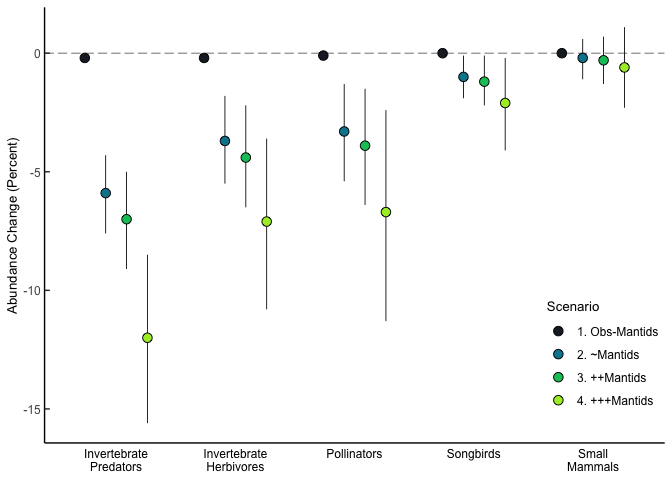
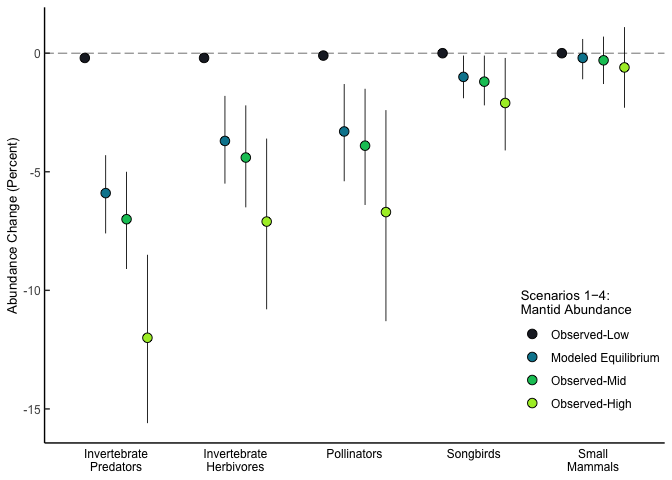
RENDERED reports

Changed region(s): [[0.7812, 0.5938, 0.9688, 0.875]]

diff --git a/sensitivity_analysis_results.md b/sensitivity_analysis_results.md
@@ -1,7 +1,7 @@
 Sensitivity Analysis Results from MANTRIX
 ================
 Beau Larkin
-Last updated: 30 April, 2025
+Last updated: 01 May, 2025
 
 # Description
 
@@ -32,61 +32,73 @@ root_path <- function(...) rprojroot::find_rstudio_root_file(...)
 source(root_path("supplement", "styles.R"))
 fig_pt_size <- 3
 fig_dodgewidth <- 0.7
+guild_labs <- c(
+  "Invertebrate\nPredators",
+  "Invertebrate\nHerbivores",
+  "Pollinators",
+  "Songbirds",
+  "Small\nMammals"
+)
 ```
 
 # Sensitivity Analysis Results
 
-## Data Import and Formatting
+## Data ETL
+
+Extract, transform, and load data for later use
 
 ``` r
-{
-  sens_path <- root_path("data", "sensitivity_analysis_data")
-  sens_files <- list.files(sens_path, full.names = TRUE, pattern = "matrix_export")
-  sens_list <- map(sens_files, read_csv, show_col_types = FALSE)
-  sens_scenarios <- regmatches(sens_files, regexpr("S\\d+", sens_files))
-  names(sens_list) <- sens_scenarios
-  df_names <- c(
-    "name", "rel_abund", "rel_abund_lc", "rel_abund_uc",
-    "abund", "abund_lc", "abund_uc",
-    "pct_change", "pct_change_lc", "pct_change_uc"
-  )
-  sens_list <- map(sens_list, function(df) {
-    colnames(df) <- df_names
-    df %>%
-      mutate(
-        across(starts_with("pct"), ~ round(.x * 100, 1)),
-        name = case_match(
-          name,
-          "Inv. Herbivores" ~ "Invertebrate Herbivores",
-          "Inv. Predators" ~ "Invertebrate Predators",
-          "Sm. Mammals" ~ "Small Mammals",
-          .default = name
-        )
-      ) %>%
-      select(name, starts_with("pct")) %>%
-      arrange(name)
-  })
-}
+sens_path <- root_path("data", "sensitivity_analysis_data")
+sens_files <- list.files(sens_path, full.names = TRUE, pattern = "matrix_export")
+sens_list <- map(sens_files, read_csv, show_col_types = FALSE)
+sens_scenarios <- regmatches(sens_files, regexpr("S\\d+", sens_files))
+names(sens_list) <- sens_scenarios
+df_names <- c(
+  "name", "rel_abund", "rel_abund_lc", "rel_abund_uc",
+  "abund", "abund_lc", "abund_uc",
+  "pct_change", "pct_change_lc", "pct_change_uc"
+)
+sens_list <- map(sens_list, function(df) {
+  colnames(df) <- df_names
+  df %>%
+    mutate(
+      across(starts_with("pct"), ~ round(.x * 100, 1)),
+      name = case_match(
+        name,
+        "Inv. Herbivores" ~ "Invertebrate Herbivores",
+        "Inv. Predators"  ~ "Invertebrate Predators",
+        "Sm. Mammals"     ~ "Small Mammals",
+        .default          = name
+      )
+    ) %>%
+    filter(name %in% c("Mantids", "Invertebrate Predators", "Songbirds",
+                       "Small Mammals", "Invertebrate Herbivores", "Pollinators")) %>%
+    mutate(name = factor(name, levels = c(
+      "Mantids", "Invertebrate Predators", "Invertebrate Herbivores",
+      "Pollinators", "Songbirds", "Small Mammals"
+    ), ordered = TRUE)) %>%
+    select(name, starts_with("pct")) %>%
+    arrange(name)
+})
 ```
 
 Scenario Labels
 
 ``` r
 scenario_names <- data.frame(
-  scenario = names(sens_list),
+  scenario = sens_scenarios,
   scenario_labels = c(
-    "1. Obs-Mantids",
-    "2. ~Mantids",
-    "3. ++Mantids",
-    "4. +++Mantids",
-    "5. −Cold, −Wasps",
-    "6. +Cold, −Wasps",
-    "7. −Cold, +Wasps",
-    "8. ~Cold, +Wasps",
-    "9. +Cold, +Wasps"
+    "Observed-Low", "Modeled Equilibrium", "Observed-Mid", "Observed-High",
+    "No Cold Snaps, No Wasps", "Four Cold Snaps, No Wasps",
+    "No Cold Snaps, 6X Wasps", "Two Cold Snaps, 6X Wasps",
+    "Four Cold Snaps, 6X Wasps"
   )
 ) %>%
-  mutate(scenario_labels = factor(scenario_labels, ordered = TRUE))
+  separate_wider_position(scenario, widths = c(1, s_num = 1), cols_remove = FALSE) %>%
+  mutate(
+    s_num = as.numeric(s_num),
+    scenario_labels = fct_reorder(scenario_labels, s_num)
+  )
 ```
 
 # Figure 4 – Manipulated mantid abundance
@@ -97,41 +109,28 @@ fig4_data <- bind_rows(
   .id = "scenario"
 ) %>%
   left_join(scenario_names, by = join_by(scenario)) %>%
-  mutate(
-    region = case_when(
-      scenario %in% c("S1", "S2") ~ "Montana estimates",
-      scenario %in% c("S3", "S4") ~ "Delaware studies",
-      .default = scenario
-    )
-  )
+  filter(name != "Mantids")
+
+fig4_pal <- sequential_hcl(4, h = c(109, 252), c = c(100, 150, 7), l = c(86, 13), power = c(0.5, 0.9))
 ```
 
 ``` r
-fig4_pal <- sequential_hcl(4, h = c(109, 252), c = c(100, 150, 7), l = c(86, 13), power = c(0.5, 0.9))
-fig4 <- fig4_data %>%
-  filter(name %in% levels(factor(c(
-    "Invertebrate Predators", "Invertebrate Herbivores", "Pollinators",
-    "Songbirds", "Small Mammals"
-  )))) %>%
-  mutate(name = factor(name, levels = c(
-    "Invertebrate Predators", "Invertebrate Herbivores", "Pollinators",
-    "Songbirds", "Small Mammals"
-  ), ordered = TRUE)) %>%
-  ggplot(aes(x = name, y = pct_change)) +
-  geom_hline(yintercept = 0, linetype = "longdash", linewidth = 0.2) +
-  geom_linerange(aes(ymin = pct_change_lc, ymax = pct_change_uc, group = scenario_labels),
-                 position = position_dodge(fig_dodgewidth), linewidth = 0.3) +
-  geom_point(aes(fill = scenario_labels), shape = 21, size = fig_pt_size,
-             position = position_dodge(fig_dodgewidth)) +
-  scale_x_discrete(labels = c(
-    "Invertebrate\nPredators", "Invertebrate\nHerbivores", "Pollinators",
-    "Songbirds", "Small\nMammals"
-  )) +
-  scale_fill_manual(name = "Scenario", values = rev(fig4_pal)) +
+fig4 <- ggplot(fig4_data, aes(x = name, y = pct_change)) +
+  geom_hline(yintercept = 0, linewidth = 0.2, linetype = "longdash") +
+  geom_linerange(
+    aes(ymin = pct_change_lc, ymax = pct_change_uc, group = scenario_labels),
+    position = position_dodge(width = fig_dodgewidth), linewidth = 0.3
+  ) +
+  geom_point(
+    aes(fill = scenario_labels), shape = 21, size = fig_pt_size,
+    position = position_dodge(width = fig_dodgewidth)
+  ) +
+  scale_x_discrete(labels = guild_labs) +
+  scale_fill_manual(name = "Scenarios 1−4:\nMantid Abundance", values = rev(fig4_pal)) +
   labs(x = NULL, y = "Abundance Change (Percent)") +
   theme_bgl_s +
   guides(fill = guide_legend(position = "inside")) +
-  theme(legend.position.inside = c(0.9, 0.2))
+  theme(legend.position.inside = c(0.88, 0.21), legend.title = element_text(hjust = 0))
 ```
 
 ``` r
@@ -146,16 +145,12 @@ cold snaps and parasitoid wasps. A two-panel plot is produced.
 
 ``` r
 fig5_data <- bind_rows(
-  list(S5 = sens_list$S5, S6 = sens_list$S6, S7 = sens_list$S7, S8 = sens_list$S8, S9 = sens_list$S9),
+  list(S5 = sens_list$S5, S6 = sens_list$S6, S7 = sens_list$S7,
+       S8 = sens_list$S8, S9 = sens_list$S9),
   .id = "scenario"
 ) %>%
   left_join(scenario_names, by = join_by(scenario)) %>%
-  separate_wider_delim(scenario_labels, delim = ". ", names = c(NA, "temp"), cols_remove = FALSE) %>%
-  separate_wider_delim(temp, delim = ", ", names = c("winter", "wasps"), cols_remove = TRUE) %>%
-  mutate(
-    winter = factor(winter, levels = c("+Cold", "Cold", "-Cold")),
-    wasps = factor(wasps, levels = c("-Wasps", "+Wasps"))
-  )
+  separate_wider_delim(scenario_labels, delim = ", ", names = c("winter", "wasps"), cols_remove = FALSE)
 
 fig5_pal <- sequential_hcl(5, h = c(109, 252), c = c(100, 150, 7), l = c(86, 13), power = c(0.5, 0.9))[
   order(c(1, 3, 2, 4, 5))
@@ -168,13 +163,17 @@ Panel 1: mantids
 fig5_mantis <- fig5_data %>%
   filter(name == "Mantids") %>%
   ggplot(aes(x = name, y = pct_change)) +
-  geom_hline(yintercept = 0, linetype = "longdash", linewidth = 0.2) +
-  geom_linerange(aes(ymin = pct_change_lc, ymax = pct_change_uc, group = scenario_labels),
-                 position = position_dodge(fig_dodgewidth), linewidth = 0.3) +
-  geom_point(aes(fill = scenario_labels), shape = 21, size = fig_pt_size,
-             position = position_dodge(fig_dodgewidth)) +
-  scale_y_continuous(breaks = seq(-100, 25, 25)) +
+  geom_hline(yintercept = 0, linewidth = 0.2, linetype = "longdash") +
+  geom_linerange(
+    aes(ymin = pct_change_lc, ymax = pct_change_uc, group = scenario_labels),
+    position = position_dodge(width = fig_dodgewidth), linewidth = 0.3
+  ) +
+  geom_point(
+    aes(fill = scenario_labels), shape = 21, size = fig_pt_size,
+    position = position_dodge(width = fig_dodgewidth)
+  ) +
   scale_fill_manual(name = "Scenario", values = fig5_pal) +
+  scale_y_continuous(breaks = seq(-100, 25, 25)) +
   labs(x = NULL, y = "Abundance Change (Percent)") +
   theme_bgl_s
 ```
@@ -183,29 +182,23 @@ Panel 2: target nodes
 
 ``` r
 fig5_targets <- fig5_data %>%
-  filter(name %in% c(
-    "Invertebrate Predators", "Songbirds", "Small Mammals",
-    "Invertebrate Herbivores", "Pollinators"
-  )) %>%
-  mutate(name = factor(name, levels = c(
-    "Invertebrate Predators", "Invertebrate Herbivores", "Pollinators",
-    "Songbirds", "Small Mammals"
-  ), ordered = TRUE)) %>%
+  filter(name != "Mantids") %>%
   ggplot(aes(x = name, y = pct_change)) +
-  geom_hline(yintercept = 0, linetype = "longdash", linewidth = 0.2) +
-  geom_linerange(aes(ymin = pct_change_lc, ymax = pct_change_uc, group = scenario_labels),
-                 position = position_dodge(fig_dodgewidth), linewidth = 0.3) +
-  geom_point(aes(fill = scenario_labels), shape = 21, size = fig_pt_size,
-             position = position_dodge(fig_dodgewidth)) +
-  scale_x_discrete(labels = c(
-    "Invertebrate\nPredators", "Pollinators", "Invertebrate\nHerbivores",
-    "Songbirds", "Small\nMammals"
-  )) +
-  scale_fill_manual(name = "Scenario", values = fig5_pal) +
+  geom_hline(yintercept = 0, linewidth = 0.2, linetype = "longdash") +
+  geom_linerange(
+    aes(ymin = pct_change_lc, ymax = pct_change_uc, group = scenario_labels),
+    position = position_dodge(width = fig_dodgewidth), linewidth = 0.3
+  ) +
+  geom_point(
+    aes(fill = scenario_labels), shape = 21, size = fig_pt_size,
+    position = position_dodge(width = fig_dodgewidth)
+  ) +
+  scale_x_discrete(labels = guild_labs) +
+  scale_fill_manual(name = "Scenarios 5−9:\nWinter Severity and Parasitoid Wasps", values = fig5_pal) +
   labs(x = NULL, y = "Abundance Change (Percent)") +
-  guides(fill = guide_legend(position = "inside", ncol = 2)) +
   theme_bgl_s +
-  theme(legend.position.inside = c(0.72, 0.15), legend.title = element_text(hjust = 0.5))
+  guides(fill = guide_legend(position = "inside", ncol = 2)) +
+  theme(legend.position.inside = c(0.58, 0.17), legend.title = element_text(hjust = 1))
 ```
 
 Arrange panels
@@ -213,11 +206,12 @@ Arrange panels
 ``` r
 fig5 <- ggarrange(
   fig5_mantis + theme(legend.position = "none"),
-  fig5_targets + lims(y = c(-4.8, 4.4)) + theme(axis.title.y = element_blank()),
+  fig5_targets + lims(y = c(-5, 4.4)) + theme(axis.title.y = element_blank()),
   nrow = 1, ncol = 2, labels = c("a", "b"),
-  hjust = c(-6.2, -5), vjust = 2.4,
+  hjust = c(-6.2, -5), vjust = 2,
   font.label = list(size = 12, face = "plain"),
-  widths = c(0.25, 0.75), align = "h"
+  widths = c(0.25, 0.75),
+  align = "h"
 )
 ```
 

diff --git a/mantid_observations_mt.md b/mantid_observations_mt.md
@@ -1,7 +1,7 @@
 *Mantis religiosa* Observations in Western Montana
 ================
 Beau Larkin
-Last updated: 30 April, 2025
+Last updated: 01 May, 2025
 
 # Description
 
@@ -99,7 +99,9 @@ us_states <- ne_states(country = c("United States of America", "Canada"), return
 lakes <- ne_download(scale = 10, type = "lakes", category = "physical", returnclass = "sf")
 ```
 
-    ## Reading layer `ne_10m_lakes' from data source `/private/var/folders/f2/v4gkwmsn0nbd3fmypfh2wl740000gp/T/Rtmp93CnER/ne_10m_lakes.shp' using driver `ESRI Shapefile'
+    ## Reading layer `ne_10m_lakes' from data source 
+    ##   `/private/var/folders/f2/v4gkwmsn0nbd3fmypfh2wl740000gp/T/RtmpATRahK/ne_10m_lakes.shp' 
+    ##   using driver `ESRI Shapefile'
     ## Simple feature collection with 1355 features and 41 fields
     ## Geometry type: MULTIPOLYGON
     ## Dimension:     XY
@@ -188,7 +190,9 @@ area_box <- st_bbox(c(xmin = -115.54, ymin = 45.84, xmax = -112.86, ymax = 48.64
 lakes_na <- ne_download(scale = 10, type = "lakes_north_america", category = "physical", returnclass = "sf")
 ```
 
-    ## Reading layer `ne_10m_lakes_north_america' from data source `/private/var/folders/f2/v4gkwmsn0nbd3fmypfh2wl740000gp/T/Rtmp93CnER/ne_10m_lakes_north_america.shp' using driver `ESRI Shapefile'
+    ## Reading layer `ne_10m_lakes_north_america' from data source 
+    ##   `/private/var/folders/f2/v4gkwmsn0nbd3fmypfh2wl740000gp/T/RtmpATRahK/ne_10m_lakes_north_america.shp' 
+    ##   using driver `ESRI Shapefile'
     ## Simple feature collection with 1162 features and 36 fields
     ## Geometry type: MULTIPOLYGON
     ## Dimension:     XY
@@ -200,7 +204,8 @@ rivers <- ne_download(scale = 10, type = "rivers_lake_centerlines", category = "
 ```
 
     ## Reading layer `ne_10m_rivers_lake_centerlines' from data source 
-    ##   `/private/var/folders/f2/v4gkwmsn0nbd3fmypfh2wl740000gp/T/Rtmp93CnER/ne_10m_rivers_lake_centerlines.shp' using driver `ESRI Shapefile'
+    ##   `/private/var/folders/f2/v4gkwmsn0nbd3fmypfh2wl740000gp/T/RtmpATRahK/ne_10m_rivers_lake_centerlines.shp' 
+    ##   using driver `ESRI Shapefile'
     ## Simple feature collection with 1473 features and 38 fields
     ## Geometry type: MULTILINESTRING
     ## Dimension:     XY
@@ -212,7 +217,8 @@ rivers_na <- ne_download(scale = 10, type = "rivers_north_america", category = "
 ```
 
     ## Reading layer `ne_10m_rivers_north_america' from data source 
-    ##   `/private/var/folders/f2/v4gkwmsn0nbd3fmypfh2wl740000gp/T/Rtmp93CnER/ne_10m_rivers_north_america.shp' using driver `ESRI Shapefile'
+    ##   `/private/var/folders/f2/v4gkwmsn0nbd3fmypfh2wl740000gp/T/RtmpATRahK/ne_10m_rivers_north_america.shp' 
+    ##   using driver `ESRI Shapefile'
     ## Simple feature collection with 4897 features and 40 fields (with 19 geometries empty)
     ## Geometry type: MULTILINESTRING
     ## Dimension:     XY

diff --git a/mantid_abundance_pcis.md b/mantid_abundance_pcis.md
@@ -1,7 +1,7 @@
 Mantid Abundance and Interaction Strength Estimates
 ================
 Beau Larkin
-Last updated: 30 April, 2025
+Last updated: 01 May, 2025
 
 # Description
 

diff --git a/wmt_winter_severity.md b/wmt_winter_severity.md
@@ -1,7 +1,7 @@
 Western Montana: Historical Extreme Cold Snaps
 ================
 Beau Larkin
-Last updated: 30 April, 2025
+Last updated: 01 May, 2025
 
 # Description
 
